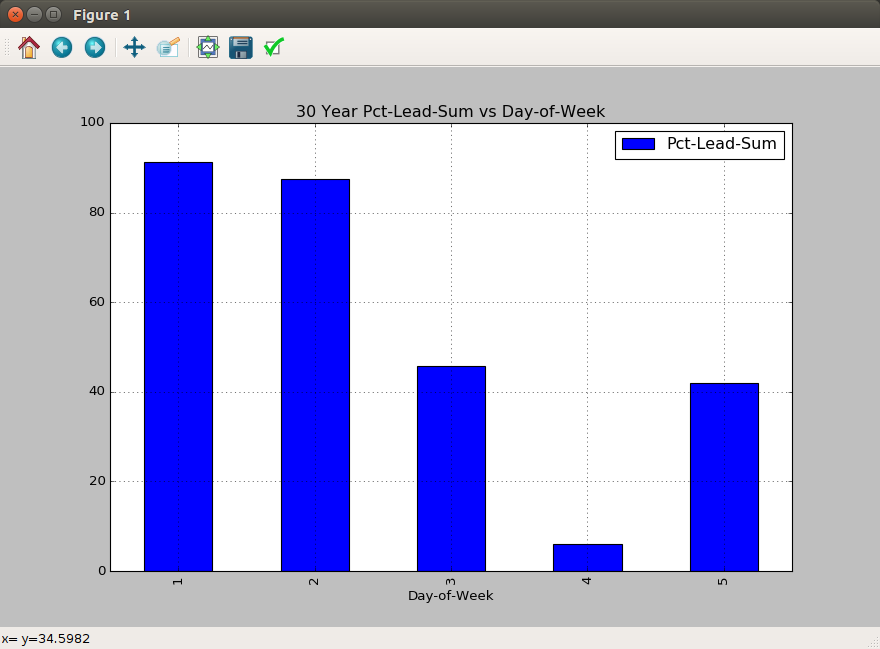
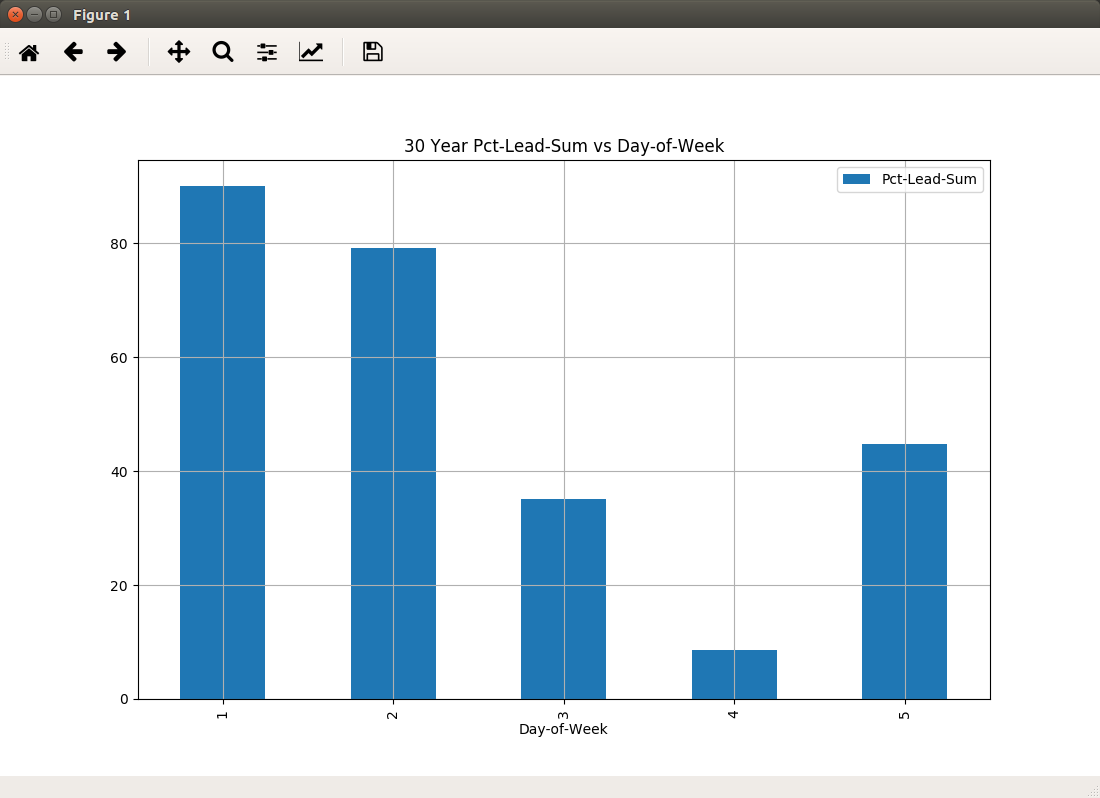
more

diff --git a/public/class03/dow_hist.py b/public/class03/dow_hist.py
@@ -1,33 +1,37 @@
-# dow_hist.py
+"""
+dow_hist.py
 
-# This script should create a visualization of pctlead vs Day of Week AKA dow:
-# Demo:
-# ~/anaconda3/bin/python dow_hist.py
+This script should create a visualization of pctlead vs Day of Week AKA dow:
 
-import pandas as pd
-
-# I should get dates and prices.
-df10 = pd.read_csv('http://ichart.finance.yahoo.com/table.csv?s=%5EGSPC')
-
-# I should compute pctlead:
-df10['pctlead'] = (100.0 * (df10.Close.shift(1) - df10.Close) / df10.Close).fillna(0)
-
-# I should compute dow:
-dt_sr = pd.to_datetime(df10.Date)
-dow_l = [int(dt.strftime('%w')) for dt in dt_sr]
-df10['dow'] = dow_l
-
-# Over the past 30 years I should collect pctlead vs dow:
-yr30_i = 252 * 30
-df11   = df10[1:yr30_i][['pctlead','dow']]
-df11.columns = ['Pct-Lead-Sum','Day-of-Week']
-
-# I should groupby dow and compute sum():
-dow_gb_df = df11.groupby('Day-of-Week').sum()
-print(dow_gb_df)
+Demo:
+~/anaconda3/bin/python dow_hist.py
+"""
 
 import matplotlib
 import matplotlib.pyplot as plt
+import pandas as pd
+
+# I should get dates and prices.
+csv_df      = pd.read_csv('http://www.spy611.com/csv/allpredictions.csv')
+cdate_cp_df = csv_df.copy()[['cdate','cp']]
+
+# I should compute pctlead:
+cdate_cp_df['pctlead'] = (100.0 * (cdate_cp_df.cp.shift(-1) - cdate_cp_df.cp) / cdate_cp_df.cp).fillna(0)
+
+# I should compute dow:
+dt_sr = pd.to_datetime(cdate_cp_df.cdate)
+dow_l = [int(dt.strftime('%w')) for dt in dt_sr]
+cdate_cp_df['dow'] = dow_l
+
+# Over the past 30 years I should collect pctlead vs dow:
+yr30_i                 = 252 * 30
+cdate_dow_pctlead_df   = cdate_cp_df.iloc[-yr30_i:][['cdate','pctlead','dow']]
+dow_pctlead_df         = cdate_dow_pctlead_df[['pctlead','dow']]
+dow_pctlead_df.columns = ['Pct-Lead-Sum','Day-of-Week']
+
+# I should groupby dow and compute sum():
+dow_gb_df = dow_pctlead_df.groupby('Day-of-Week').sum()
+print(dow_gb_df)
 
 dow_gb_df.plot.bar(title="30 Year Pct-Lead-Sum vs Day-of-Week", figsize=(11,7))
 plt.grid(True)
